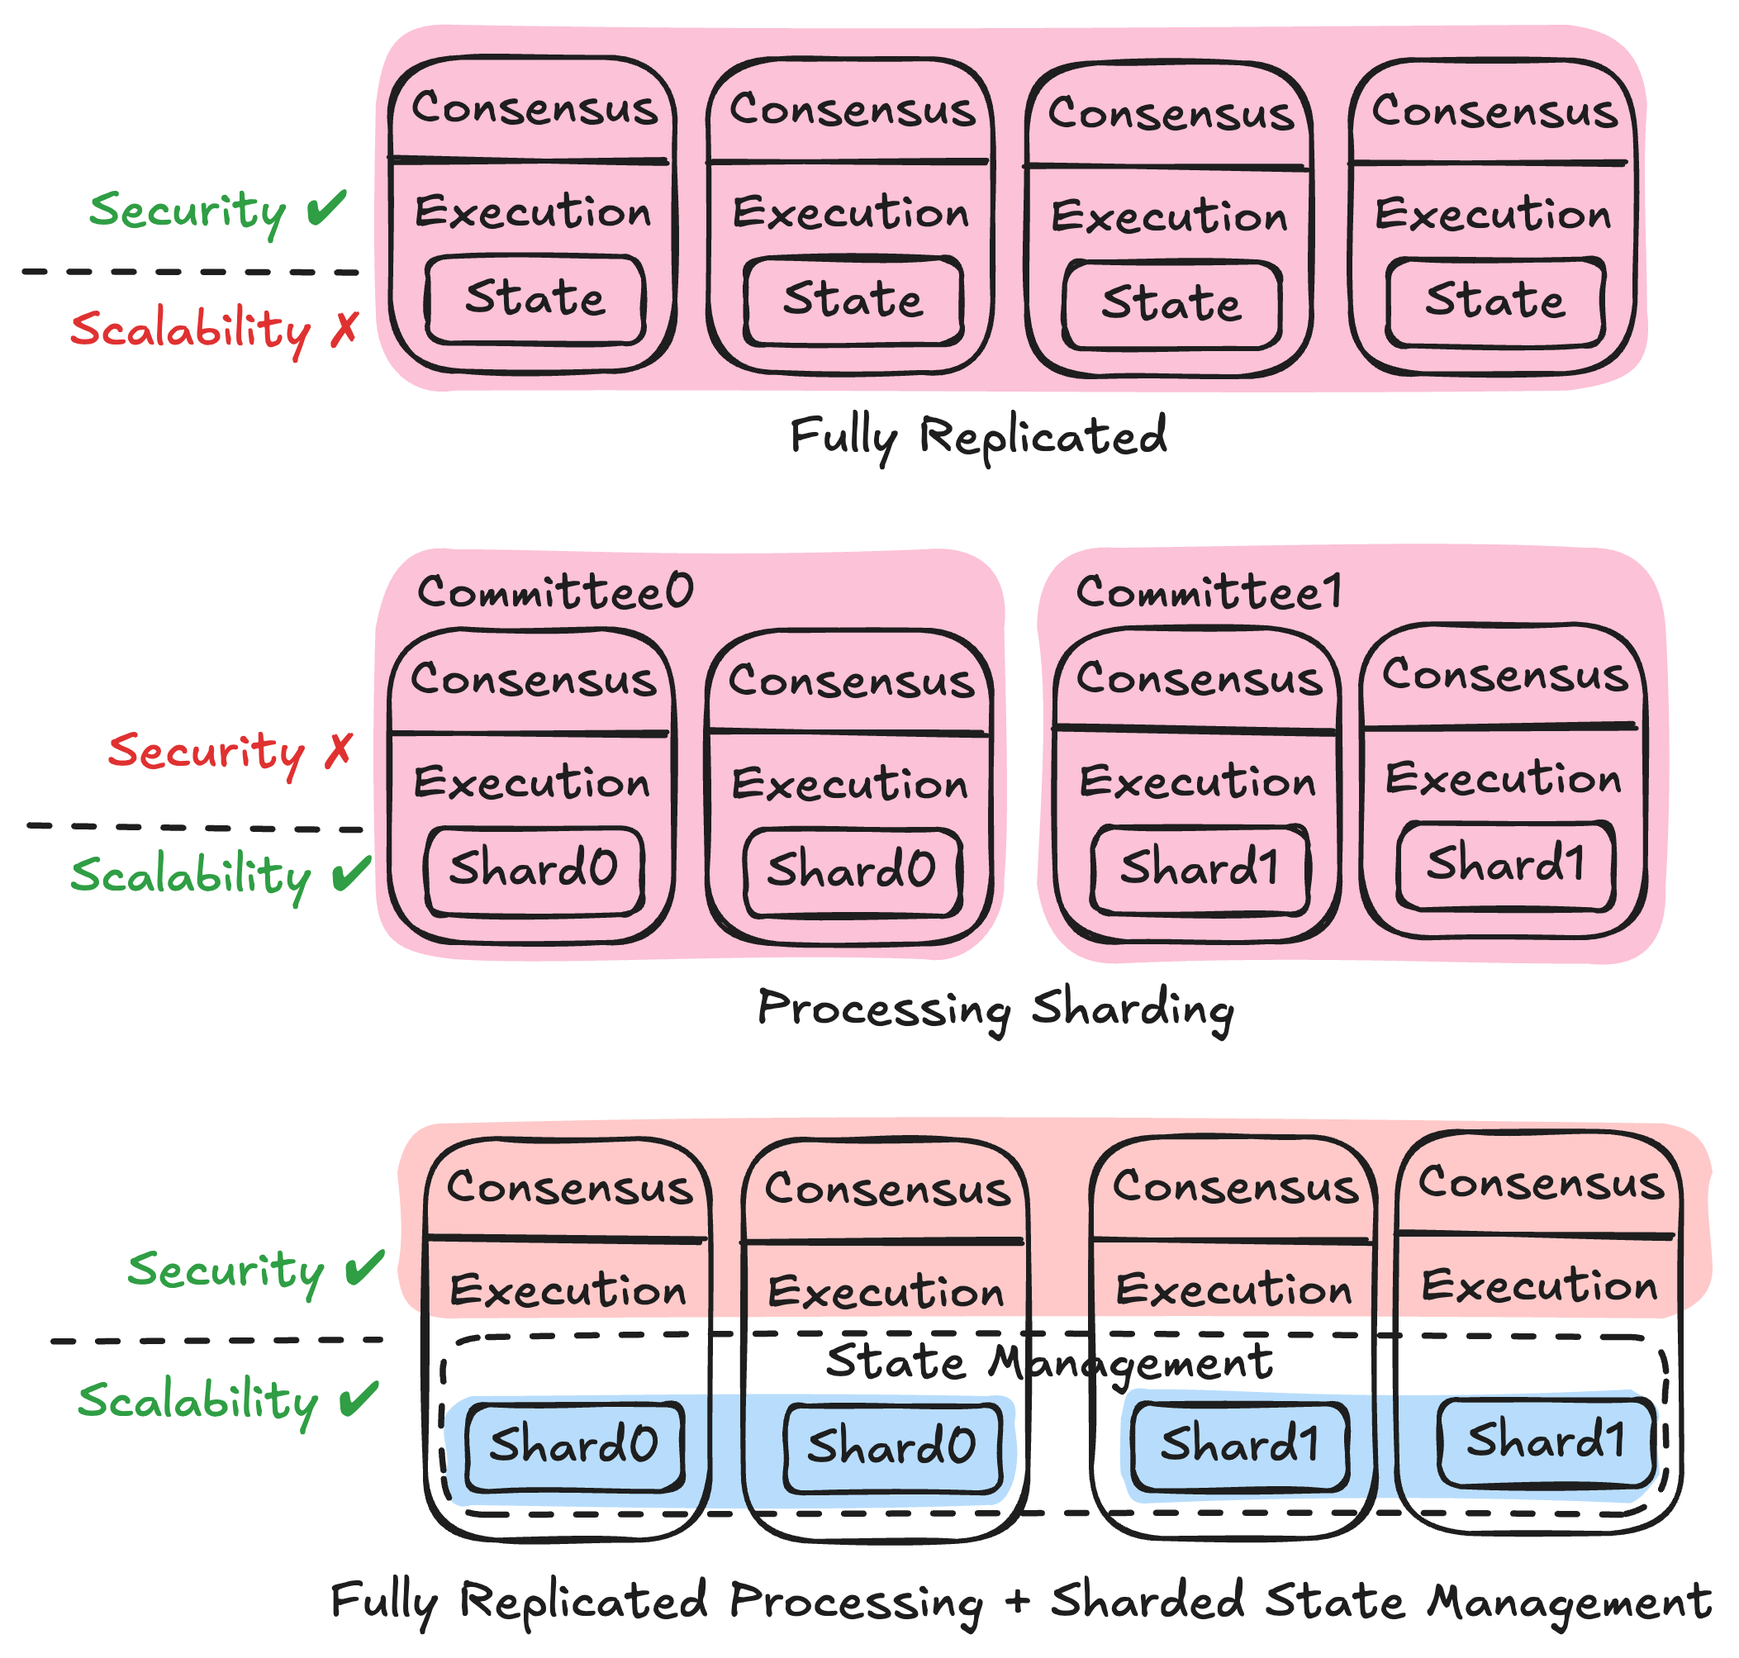
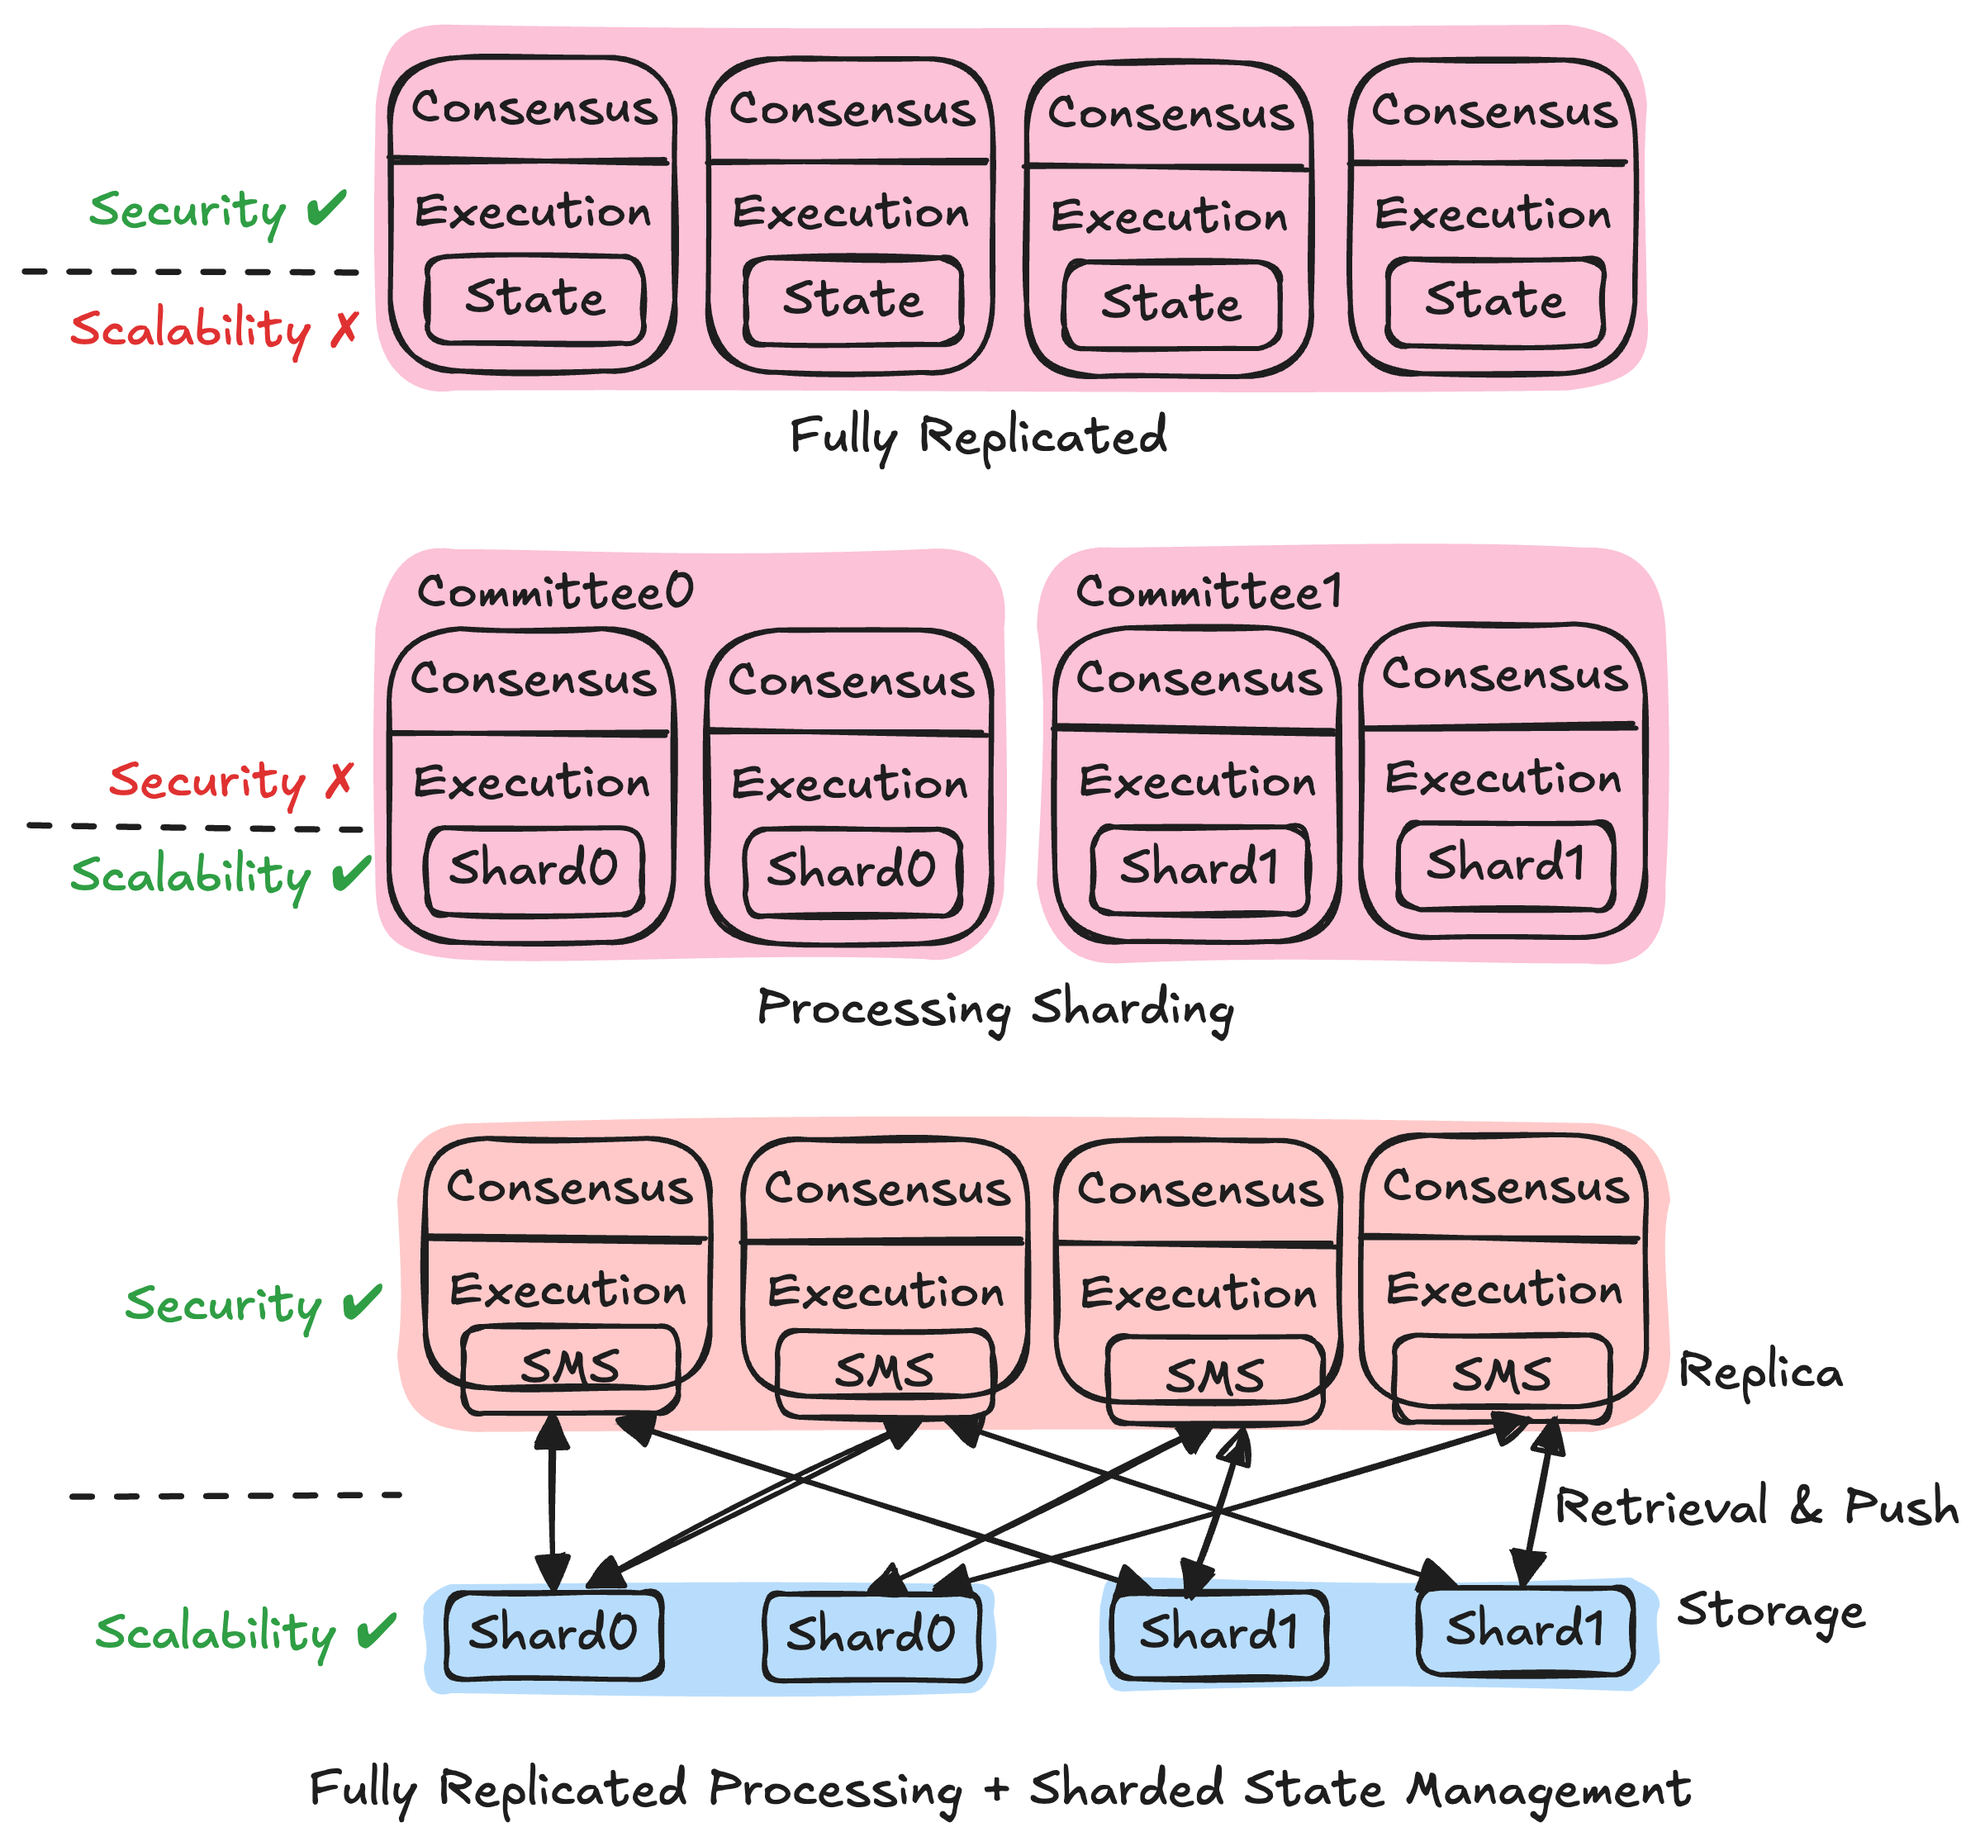
intro: figure

diff --git a/sections/introduction.tex b/sections/introduction.tex
@@ -19,7 +19,8 @@ Consequently, these approaches fail to uphold the conventional security assuranc
 \begin{figure}
     \includegraphics[width=0.9\linewidth]{figures/approach-compare}
     \caption{Comparison of BFT scalability approaches.
-    Each rounded rectangle represents a replicated node.}
+    Each rounded rectangle represents a replicated node.
+    Each sharded area represents a fault-tolerant unit: a consensus committee can tolerate $f$ faulty nodes with $3f+1$ nodes, while a storage shard can tolerate $f$ faulty nodes with $f+1$ nodes.}
     \label{fig:approach-compare}
 \end{figure}
 
